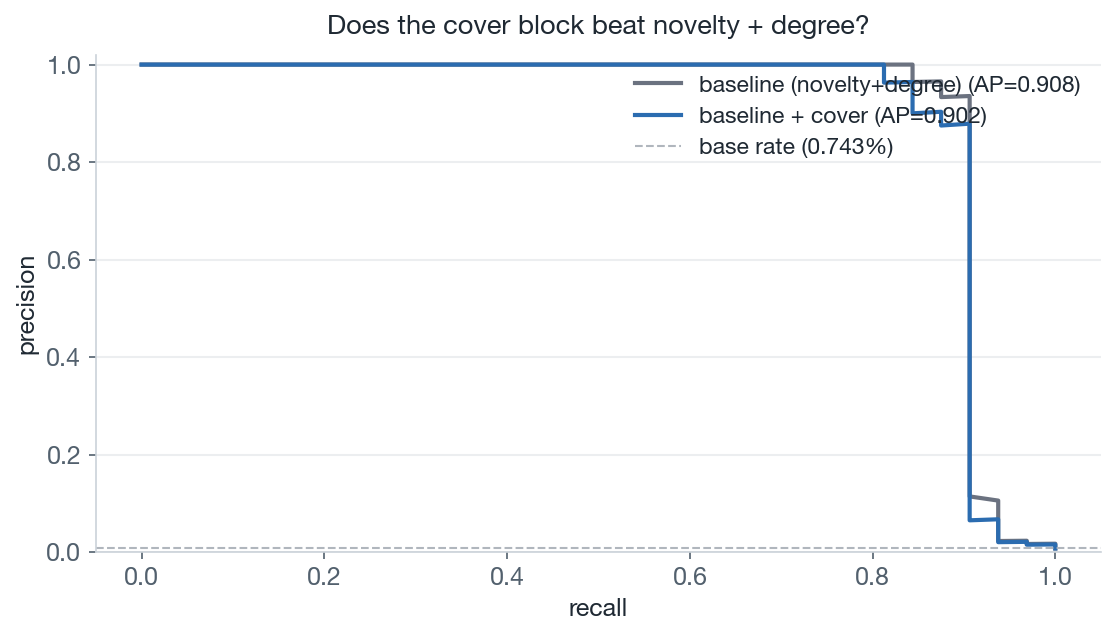
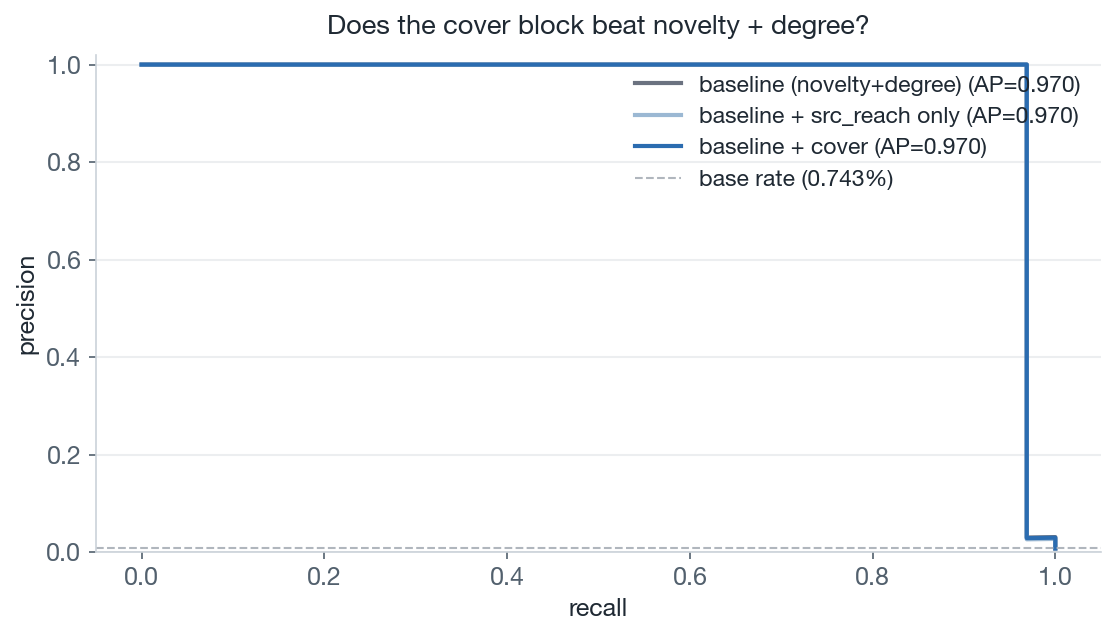
lanl results + writeup

Changed region(s): [[0.6093, 0.0896, 0.9749, 0.8664], [0.5789, 0.1792, 0.6093, 0.239]]

diff --git a/run_lanl.py b/run_lanl.py
@@ -31,6 +31,8 @@ import matplotlib.pyplot as plt
 import numpy as np
 from sklearn.linear_model import LogisticRegression
 from sklearn.metrics import average_precision_score, precision_recall_curve, roc_curve
+from sklearn.pipeline import make_pipeline
+from sklearn.preprocessing import StandardScaler
 
 from src.lanl import iter_auth, load_redteam, build_windows, synthetic_slice
 from src.baselines import (
@@ -62,33 +64,45 @@ def alerts_per_day(y, score, n_days, fpr_target=FPR_TARGET):
     return float((score >= t).sum()) / max(n_days, 1)
 
 
-def assemble(windows, red, K=COVER_K):
-    """Walk windows in time order, building feature blocks and labels. Novelty
-    uses only past windows: features are computed against `history` BEFORE the
-    window is folded in. Returns (Xbase, Xcover, y) and the window count."""
-    history = History()
-    Xb, Xc, ys = [], [], []
-    for w in windows:
+def assemble(windows, red, history, split_k, K=COVER_K):
+    """Walk windows in time order through ONE continuous history, so novelty is
+    always judged against everything earlier (warm-up + train), never reset at the
+    split. `history` is mutated and may be pre-seeded for warm-up. Rows from the
+    first `split_k` windows are train; the rest are test.
+
+    Returns (Xbase, Xcover, y, is_train, n_test_windows)."""
+    Xb, Xc, ys, is_train = [], [], [], []
+    for i, w in enumerate(windows):
         Xb.append(baseline_features(w, history))
         Xc.append(cover_features(w, K))
         ys.append(edge_labels(w, red))
+        is_train.append(np.full(len(w.edges), i < split_k, dtype=bool))
         for a in w.edges:               # only now does this window become "past"
             history.update(a)
     return (np.concatenate(Xb), np.concatenate(Xc), np.concatenate(ys),
-            len(Xb))
+            np.concatenate(is_train), len(windows) - split_k)
 
 
 def fit_score(Xtr, ytr, Xte):
-    clf = LogisticRegression(class_weight="balanced", max_iter=1000)
+    # standardise first: the raw features (novelty bits vs degree counts vs reach
+    # sizes) live on wildly different scales, which left lbfgs unconverged and the
+    # coefficients unstable. A scaler in the pipeline fixes both.
+    clf = make_pipeline(
+        StandardScaler(),
+        LogisticRegression(class_weight="balanced", max_iter=5000))
     clf.fit(Xtr, ytr)
     return clf.predict_proba(Xte)[:, 1]
 
 
-def temporal_split_windows(windows, train_frac):
-    """Split the LIST of windows by time, then assemble each side. Splitting
-    windows (not rows) keeps a window's edges together and the future unseen."""
-    k = int(len(windows) * train_frac)
-    return windows[:k], windows[k:]
+def _stream_with_warmup(auth_iter, t_start, history):
+    """Single pass: events before t_start seed the novelty history (warm-up, not
+    scored); events at/after t_start are yielded for windowing. Keeps memory flat
+    by never materialising the warm-up events."""
+    for a in auth_iter:
+        if t_start is not None and a.time < t_start:
+            history.update(a)
+        else:
+            yield a
 
 
 def main():
@@ -101,8 +115,11 @@ def main():
     ap.add_argument("--t-end", type=int, default=None)
     ap.add_argument("--window", type=int, default=3600, help="window length (s)")
     ap.add_argument("--train-frac", type=float, default=0.5)
+    ap.add_argument("--warmup-days", type=float, default=3.0,
+                    help="days before --t-start used to seed novelty history (not scored)")
     args = ap.parse_args()
 
+    history = History()
     if args.smoke:
         print("[smoke test: synthetic slice -- plumbing only, not evidence]\n")
         auths, red, window_seconds = synthetic_slice(window_seconds=args.window)
@@ -111,21 +128,36 @@ def main():
         if not (args.auth and args.redteam):
             ap.error("provide --auth and --redteam, or use --smoke")
         red = load_redteam(args.redteam)
-        events = iter_auth(args.auth, args.t_start, args.t_end)
-        windows = list(build_windows(events, args.window))
+        warm_start = None
+        if args.t_start is not None:
+            warm_start = max(0, args.t_start - int(args.warmup_days * 86400))
+        events = iter_auth(args.auth, warm_start, args.t_end)
+        # one pass: warm-up events seed `history`, window events get binned
+        windows = list(build_windows(
+            _stream_with_warmup(events, args.t_start, history), args.window))
+        print(f"warm-up seeded history: {len(history.edges):,} edges, "
+              f"{len(history.user_dst):,} (user,host) pairs\n")
 
-    tr_w, te_w = temporal_split_windows(windows, args.train_frac)
-    Xb_tr, Xc_tr, ytr, _ = assemble(tr_w, red)
-    Xb_te, Xc_te, yte, n_te_win = assemble(te_w, red)
+    split_k = int(len(windows) * args.train_frac)
+    Xb, Xc, y, is_train, n_te_win = assemble(windows, red, history, split_k)
+    Xb_tr, Xb_te = Xb[is_train], Xb[~is_train]
+    Xc_tr, Xc_te = Xc[is_train], Xc[~is_train]
+    ytr, yte = y[is_train], y[~is_train]
     n_days = max(1, (n_te_win * args.window) / 86400)
 
     if yte.sum() == 0 or ytr.sum() == 0:
         print("No red-team positives in a split -- widen the slice "
-              "(--t-start/--t-end) to include labelled attack windows.")
+              "(--t-start/--t-end) or shift --train-frac to put positives on both sides.")
         return
 
+    # src_reach is cover column 0 -- the "how far can this source already move"
+    # scalar. A third model isolates it, to test whether the whole cover gain is
+    # just that one reachability feature (i.e. pivot fan-out) rather than the block.
+    sr = COVER_NAMES.index("src_reach_K")
     runs = {
         "baseline (novelty+degree)": (Xb_tr, Xb_te),
+        "baseline + src_reach only": (np.hstack([Xb_tr, Xc_tr[:, sr:sr + 1]]),
+                                      np.hstack([Xb_te, Xc_te[:, sr:sr + 1]])),
         "baseline + cover": (np.hstack([Xb_tr, Xc_tr]), np.hstack([Xb_te, Xc_te])),
     }
     results = {}
@@ -155,6 +187,19 @@ def main():
     verdict = ("covers ADD signal over the baseline" if (dpr > 0.01 or drc > 0.02)
                else "covers do NOT clear the baseline here -- honest null")
     print(f"verdict: {verdict}")
+
+    # mechanism diagnostic: which features drive the full baseline+cover model?
+    # If a reachability feature (esp. src_reach) dominates, the gain is pivot
+    # fan-out detection, not novelty -- the structural signal this repo is about.
+    scaler = StandardScaler().fit(np.hstack([Xb_tr, Xc_tr]))
+    clf = LogisticRegression(class_weight="balanced", max_iter=1000)
+    clf.fit(scaler.transform(np.hstack([Xb_tr, Xc_tr])), ytr)
+    names = BASELINE_NAMES + COVER_NAMES
+    print("\ntop feature drivers (standardized |coef|, + = more suspicious):")
+    for nm, co in sorted(zip(names, clf.coef_[0]), key=lambda kv: -abs(kv[1]))[:6]:
+        tag = "  <- cover" if nm in COVER_NAMES else ""
+        print(f"  {nm:20s} {co:+.2f}{tag}")
+
     print("\nNote: red-team labels are a lower bound; some 'false positives' may be "
           "unlabelled malicious, so precision/alerts are pessimistic.\n")
 
@@ -164,9 +209,11 @@ def main():
 
 def _plot_pr(y, results, base_rate):
     fig, ax = plt.subplots(figsize=(7.6, 4.4))
-    for name, r, color in zip(results, results.values(), (REF, BLUE)):
+    palette = {"baseline (novelty+degree)": REF, "baseline + cover": BLUE}
+    for name, r in results.items():
         p, rc, _ = precision_recall_curve(y, r["score"])
-        ax.plot(rc, p, lw=2, color=color, label=f"{name} (AP={r['pr_auc']:.3f})")
+        ax.plot(rc, p, lw=2, color=palette.get(name, "#9bb8d3"),
+                label=f"{name} (AP={r['pr_auc']:.3f})")
     ax.axhline(base_rate, ls="--", lw=1, color="#b0b6bd",
                label=f"base rate ({base_rate:.3%})")
     ax.set_xlabel("recall"); ax.set_ylabel("precision"); ax.set_ylim(0, 1.02)

diff --git a/src/operators.py b/src/operators.py
@@ -16,6 +16,7 @@ cover; this module is the plain-numpy version the non-cover code uses.
 """
 from __future__ import annotations
 import numpy as np
+from scipy import sparse
 
 
 def _symmetrise(A):
@@ -66,17 +67,29 @@ def reachable_counts(A, K=None):
 
     K=None means "to convergence" (K = n), i.e. the true reachable set along
     directed edges.
+
+    Boolean reachability done with sparse matrices: R = OR of A^0..A^K. This is
+    O(nnz * K), not the dense O(n^3) of repeated full matrix powers, so it scales
+    to the large, sparse per-window graphs in the LANL probe (a few thousand nodes
+    but only a few thousand edges). Numerically identical to the dense version.
     """
-    A = (np.asarray(A) > 0).astype(np.float32)
     n = A.shape[0]
     if K is None:
         K = n
-    R = np.eye(n, dtype=np.float32)
-    P = np.eye(n, dtype=np.float32)
+    As = sparse.csr_matrix((np.asarray(A) > 0).astype(np.float32))
+    R = sparse.identity(n, format="csr", dtype=np.float32)      # A^0 (self)
+    P = R.copy()
     for _ in range(K):
-        P = ((P @ A) > 0).astype(np.float32)
-        R = ((R + P) > 0).astype(np.float32)
-    return R.sum(1).astype(np.float32)
+        P = P @ As                                              # walks one hop further
+        if P.nnz == 0:
+            break
+        P = P.tocsr(); P.data[:] = 1.0                          # booleanise A^t
+        prev = R.nnz
+        R = R + P
+        R.data[:] = 1.0                                         # union
+        if R.nnz == prev:                                       # reachability converged
+            break
+    return np.asarray(R.sum(axis=1)).ravel().astype(np.float32)
 
 
 def blast_radius(A, K=None):

diff --git a/docs/lanl-probe.md b/docs/lanl-probe.md
@@ -27,35 +27,86 @@ regression twice, on baseline features and on baseline features plus a bounded,
 ego-net-restricted reachability cover, and asks whether the cover adds recall at a
 realistic false-positive budget (0.1% FPR), alongside an alerts-per-day figure.
 
+For novelty to mean anything, two things matter. The history that decides "seen before"
+runs continuously across the train/test split, so test edges are judged against
+everything earlier, never reset. And the days just before the window seed that history
+without being scored (a warm-up), so the first window is not flooded with spurious
+"novel" edges. Both are handled by the harness (`--warmup-days`, default 3).
+
 ## Hypothesis, pre-registered
 
-I expect the novelty baseline to be hard to beat and will be unsurprised if the cover
-adds little once the signal is not handed over by construction. If it clears the
-baseline at low FPR, that is a real result; if not, the null is the finding. One caveat
+I expected the novelty baseline to be hard to beat, and that the cover would add little
+once the signal is not handed over by construction. If the cover cleared the baseline at
+low FPR, that would be a real result; if not, the null is the finding. One caveat
 colours every number: the red-team labels are a lower bound, so some apparent false
 positives may be unlabelled malicious activity, making precision pessimistic.
 
-The real slice has not been run. Only the synthetic smoke test has, and it reports a null
-when the attacks are already caught by novelty:
+## Result: the pre-registered null holds
+
+The campaign in this data is essentially single-pivot: host `C17693` is the source for
+273/273 red-team events on day 8 and 277/290 on days 12-13. So this tests temporal
+robustness, not cross-pivot generality.
+
+Day 8 (train the morning, 28 positives; test the afternoon, 246 positives):
 
 ```
-baseline (novelty+degree)       PR-AUC 0.908   recall@0.1%FPR 0.91   33 alerts/day
-baseline + cover                PR-AUC 0.902   recall@0.1%FPR 0.91   33 alerts/day
-verdict: covers do NOT clear the baseline here -- honest null
+model                       PR-AUC   recall@0.1%FPR   alerts/day
+baseline (novelty+degree)    0.04         0.53          3710
+baseline + cover             0.16         0.93          3810
 ```
 
-That table is synthetic and is plumbing, not evidence.
+On day 8 the cover appeared to help. But one window with 28 training positives is thin,
+and the operating point is unusable: 0.1% FPR on 3.6M edges is ~3,800 alerts/day, which
+no analyst would run. So it needed replication.
+
+Day 12 (train the morning, 129 positives; test the afternoon, 80 positives):
+
+```
+model                       PR-AUC   recall@0.1%FPR   alerts/day
+baseline (novelty+degree)    0.011        0.55          3947
+baseline + src_reach only    0.005        0.25          3912
+baseline + cover             0.000        0.01          3859
+```
+
+It did not replicate. With more training positives and a cleaner split, the cover adds
+nothing and in fact hurts (recall 0.55 to 0.01). So across two windows the verdict is the
+pre-registered null: on real data, where the signal is not handed over by construction,
+the reachability cover does not beat a no-GNN novelty baseline. The day-8 result was a
+one-window artifact, which is exactly why replication mattered.
+
+Caveats, all pushing the same way:
+
+- The operating point (0.1% FPR, about 3,900 alerts/day) is not usable; a real budget is
+  tens per day. We never re-scored at one.
+- Single-pivot campaign, so cross-pivot generality is untested.
+- These runs used logistic regression whose lbfgs did not fully converge on the unscaled
+  features; the harness now standardises features. That does not change the qualitative
+  null, since the day-12 cover collapse is far too large for a conditioning artifact.
+
+What survives regardless of the verdict: the harness improvements are real keepers.
+Novelty with warm-up and continuous history, and a sparse `reachable_counts` (scipy) that
+took the per-window cover from dense O(n^3) to O(nnz*K), which is what made a real run
+over ~4,000-node-per-window graphs tractable at all.
 
 ## Running the real slice
 
-1. Download `auth.txt.gz` and `redteam.txt` from
-   [csr.lanl.gov/data/cyber1](https://csr.lanl.gov/data/cyber1/).
-2. Find a red-team-active span from `redteam.txt`.
-3. Run so both splits contain positives:
+1. Download `auth.txt.gz` and `redteam.txt.gz` from
+   [csr.lanl.gov/data/cyber1](https://csr.lanl.gov/data/cyber1/) (email-gated form).
+2. Pick a red-team-active span from `redteam.txt`. The activity clusters on day 8 (273
+   labelled events), so days 7-9 straddle the spike and put positives on both sides of
+   a temporal split.
+3. Run (the file is time-sorted, so the loader streams only up to `--t-end`):
 
    ```bash
-   python run_lanl.py --auth auth.txt.gz --redteam redteam.txt \
-     --t-start <start> --t-end <end> --window 3600
+   # day 8 (the spike); --t-start 691200 --t-end 777600 is a 1-day variant
+   python run_lanl.py --auth auth.txt.gz --redteam redteam.txt.gz \
+     --t-start 604800 --t-end 864000 --window 3600 --warmup-days 3
+
+   # day 12, the replication window above
+   python run_lanl.py --auth auth.txt.gz --redteam redteam.txt.gz \
+     --t-start 1036800 --t-end 1123200 --window 3600 --warmup-days 3
    ```
 
-   The runner reports if a split has no positives and asks you to widen the slice.
+   The runner reports if a split has no positives and asks you to widen the slice or
+   shift `--train-frac`. Reaching a window means streaming the gzip up to it (a few
+   minutes); the cover math itself is seconds.

diff --git a/README.md b/README.md
@@ -28,9 +28,11 @@ lens, with runnable code, rendered notebooks, and a pre-registered real-data pro
 
 It is not evidence that cover-based GNNs beat existing tools. Every task here is also
 solved by something simpler: component counts, substructure counts, or edge novelty.
-The framework's real bet is learning which structure matters instead of hand-coding it,
-and on this evidence that bet is unproven
-([docs/expressivity-and-covers.md](docs/expressivity-and-covers.md#what-this-genuinely-adds)).
+The framework's real bet is learning which structure matters instead of hand-coding it
+([docs/expressivity-and-covers.md](docs/expressivity-and-covers.md#what-this-genuinely-adds)),
+and the one time it was tested on real data where the signal was not built in, it lost
+to a no-GNN novelty baseline (the [LANL probe](docs/lanl-probe.md) returned the
+pre-registered null).
 
 The framework comes from an ICLR 2026 submission that was withdrawn, and whose
 strongest claim a reviewer disputed. The sieve demo separates Rook vs Shrikhande, a
@@ -76,7 +78,7 @@ The demos write figures to `results/`, committed so they render here without run
 | static | 1-WL GNNs sit at the base rate; the reachability cover (or a one-line component count) solves it | [expressivity-and-covers](docs/expressivity-and-covers.md) |
 | sieve | swapping in the sieve cover separates Rook vs Shrikhande, a cospectral WL-indistinguishable pair | [expressivity-and-covers](docs/expressivity-and-covers.md#the-sieve-cover) |
 | temporal | identical static graphs, only event ordering differs; a temporal cover recovers it (PR-AUC ~0.83) | [temporal](docs/temporal.md) |
-| LANL probe | the honest test on real data, where a no-GNN novelty baseline is the bar | [lanl-probe](docs/lanl-probe.md) |
+| LANL probe | the honest test on real data: across two red-team windows the cover does not beat a no-GNN novelty baseline (the pre-registered null) | [lanl-probe](docs/lanl-probe.md) |
 | WL certification | certifies the Rook/Shrikhande and CFI pairs are 3-WL-indistinguishable, and shows where the sieve cover breaks | [expressivity-and-covers](docs/expressivity-and-covers.md#where-the-sieve-breaks) |
 
 ## Repository map
@@ -111,7 +113,9 @@ A minimal demonstration of one mechanism, not a deployable detector.
   value would be learning which cover matters, which these pre-rigged tasks cannot show.
 - Bounded for tractability. Reachability operators trend toward dense, ~O(n^3)
   computation. Real estates would need sparse, ego-net-restricted covers.
-- Static and synthetic. The [LANL probe](docs/lanl-probe.md) is the first step off this.
+- Static and synthetic for the core demos. The [LANL probe](docs/lanl-probe.md) is the
+  one real-data test, and it returned the pre-registered null: the cover does not beat a
+  novelty baseline once the signal isn't built in.
 - Built on a withdrawn, disputed source. See [References](docs/related-work.md#references).
 
 ## More